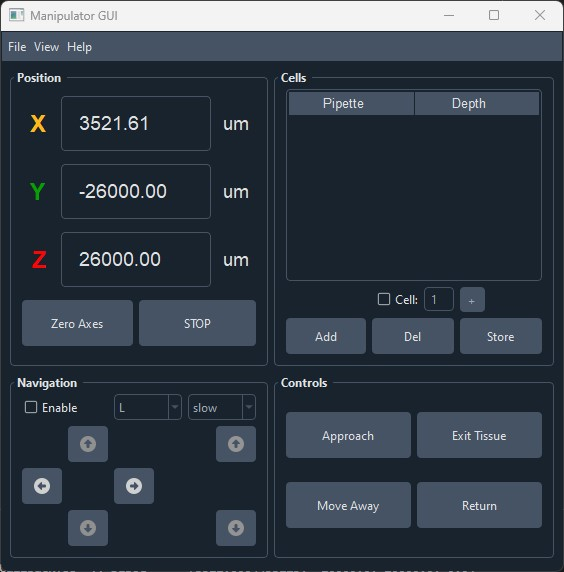
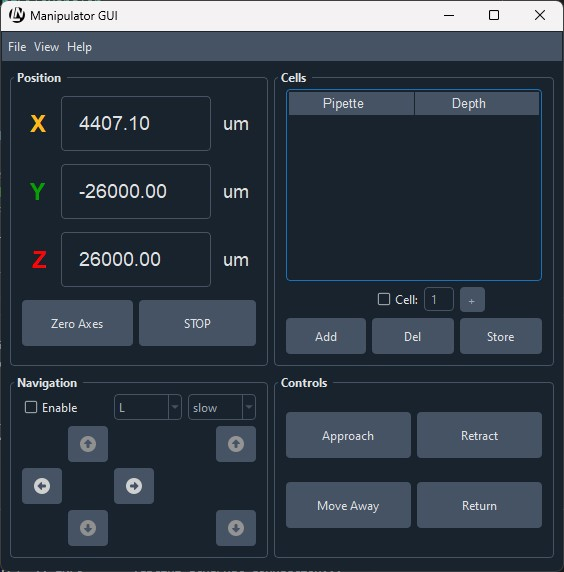
update docs

diff --git a/README.md b/README.md
@@ -1,13 +1,13 @@
 # LN-Remote
 [![License: MIT](https://img.shields.io/badge/License-MIT-yellow.svg)](https://opensource.org/licenses/MIT)
 
-`LN-Remote` is a remote control for Luigs and Neumann's micromanipulators. It allows the user to interface with the manipulator from a computer to build upon the functionality of the L&N Remote control units. 
+`LN-Remote` is a Python-based remote control software for Luigs and Neumann's micromanipulators. It allows the user to interface with the manipulator from a computer to build upon the functionality of the L&N Remote control units. 
 
 ## Table of contents
 - [Features](#features)
-- [Usage](#usage)
 - [Requirements](#requirements)
 - [Installation](#installation)
+- [Usage](#usage)
 - [License](#license)
 
 ## Features
@@ -15,23 +15,7 @@
 - Gross movement of the manipulator
 - Fine, slow traversal to specified depths
 - Store pipette depths for each patched cell in a csv file
-- Quick action buttons for common tasks, like moving to the surface, moving away from the sample, etc.
-
-## Usage
-The software is designed to be used with a Luigs and Neumann manipulator, a L&N control box. A remote control unit (like the SM10<sup>Touch</sup>) is not required, but highly recommended.
-
-LN-Remote can operate using two communication modes: serial and TCP/IP. Depending on your setup, you might want to adjust this in the `config.ini` file, along with the device's `IP` and `PORT` (for TCP/IP) and `SERIAL` number (for serial). Note that the serial mode has not yet been thoroughly tested, and might not work as expected.
-
-To start the software, run the `run.py` script. The [GUI](/doc/_static/LN-Remote.jpg) should open up, and automatically connect to the manipulator. 
-- The current positions of the manipulator axes are displayed in the top left corner, in the 'Position' panel. 
-- To grossly move the axes, you must first check the 'Enable' button in the 'Navigation' panel. The dropdown menus to the right allow you to set the speed mode and velocity of the axes. Below, the arrow buttons allow you to move the axes in the positive and negative direction, corresponding to the directional buttons in the SM10<sup>Touch</sup> remote control unit.
-- To save the current position of the X axis as a patched cell, click the 'Add' button in the 'Cells' panel followed by the 'Store' button. If the 'Cell' checkbox is clicked, the program will automatically add the pipette/cell number to the 'Pipette' column, along with the current depth of the X axis. The 'Pipette' and 'Depth' columns can be edited manually by double-clicking on the fields. If a row was added by mistake, clicking the 'Del' button will remove the last row. Finally, the '+' button increases the pipette number by 1, and the text within the box is editable.
-- Some quick actions are laid out in the 'Controls' panel.
-  - 'Approach' allows you to specify an absolute depth to move to pipette to, and the 'Retract' button will move the pipette to the surface.
-  - 'Move Away' will move the pipette away from the sample. If the pipette is still in the sample, a dialog box will warn you. Clicking 'Proceed anyway', the pipette will first move to the surface, and then move away from the sample.
-  - After exchanging the pipette, 'Return' moves it to Y = 0 and Z = 0, without changing the X axis position. This way, we prevent the pipette from crashing onto the sample if there is a misalignment between the sample and the manipulator.
-
-![](/doc/_static/LN-Remote.jpg)
+- Quick action buttons for common tasks, like retracting to the surface, moving away from the sample, etc.
 
 ## Requirements
 It is written in Python and uses the *PySide6* framework for the GUI. It has been tested on Windows 10 and 11, but should work on Linux and Mac as well.
@@ -46,6 +30,22 @@ Installation is easy with `conda`:
 2. Run `conda env create -n lnremote -f environment.yml` to create a new environment with all the required packages. 
 3. Activate the environment with `conda activate lnremote`.
 4. Run LN-Remote with `python run.py`.
+
+## Usage
+The software is designed to be used with a Luigs and Neumann manipulator, a L&N control box. The remote control unit (like the SM10<sup>Touch</sup>) is not required after configuration, but highly recommended.
+
+LN-Remote can operate using two communication modes: serial and TCP/IP. Depending on your setup, you might want to adjust this in the `config.ini` file, along with the device's `IP` and `PORT` (for TCP/IP) and `SERIAL` number (for serial). Note that the serial mode has not yet been thoroughly tested, and might not work as expected.
+
+To start the software, run the `run.py` script. The [GUI](/doc/_static/LN-Remote.jpg) should open up, and automatically connect to the manipulator. 
+- The current positions of the manipulator axes are displayed in the top left corner, in the 'Position' panel. 
+- To grossly move the axes, you must first check the 'Enable' button in the 'Navigation' panel. The dropdown menus to the right allow you to set the speed mode and velocity of the axes. Below, the arrow buttons allow you to move the axes in the positive and negative direction, corresponding to the directional buttons in the SM10<sup>Touch</sup> remote control unit.
+- To save the current position of the X axis as a patched cell, click the 'Add' button in the 'Cells' panel followed by the 'Store' button. If the 'Cell' checkbox is clicked, the program will automatically add the pipette/cell number to the 'Pipette' column, along with the current depth of the X axis. The 'Pipette' and 'Depth' columns can be edited manually by double-clicking on the fields. If a row was added by mistake, clicking the 'Del' button will remove the last row. Finally, the '+' button increases the pipette number by 1, and the text within the box is editable.
+- Some quick actions are laid out in the 'Controls' panel.
+  - 'Approach' allows you to specify an absolute depth to move to pipette to, and the 'Retract' button will move the pipette to the surface.
+  - 'Move Away' will move the pipette away from the sample. If the pipette is still in the sample, a dialog box will warn you. Clicking 'Proceed anyway', the pipette will first move to the surface, and then move away from the sample.
+  - After exchanging the pipette, 'Return' moves it to Y = 0 and Z = 0, without changing the X axis position. This way, we prevent the pipette from crashing onto the sample if there is a misalignment between the sample and the manipulator.
+
+![](/doc/_static/LN-Remote.jpg)
 
 ## License
 This project is licensed under the MIT License - see the [LICENSE](LICENSE) file for details
